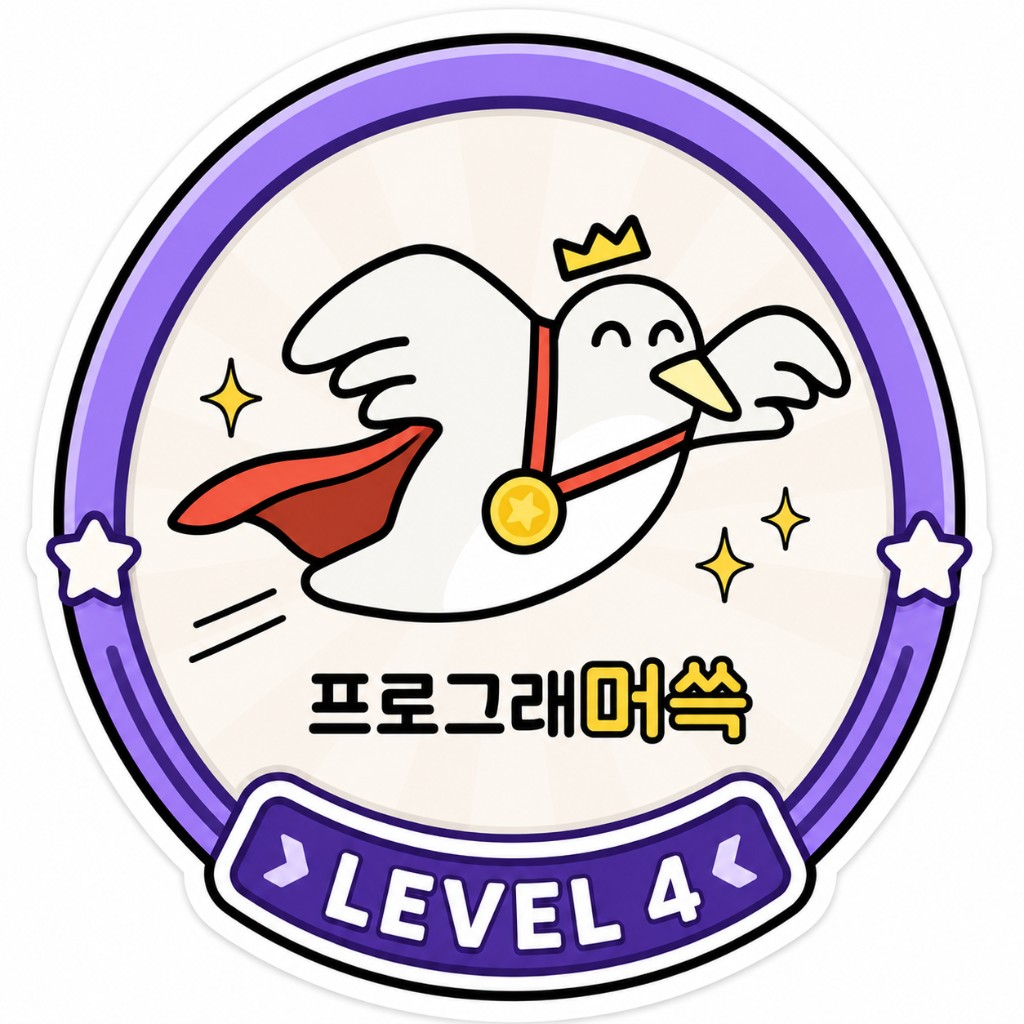
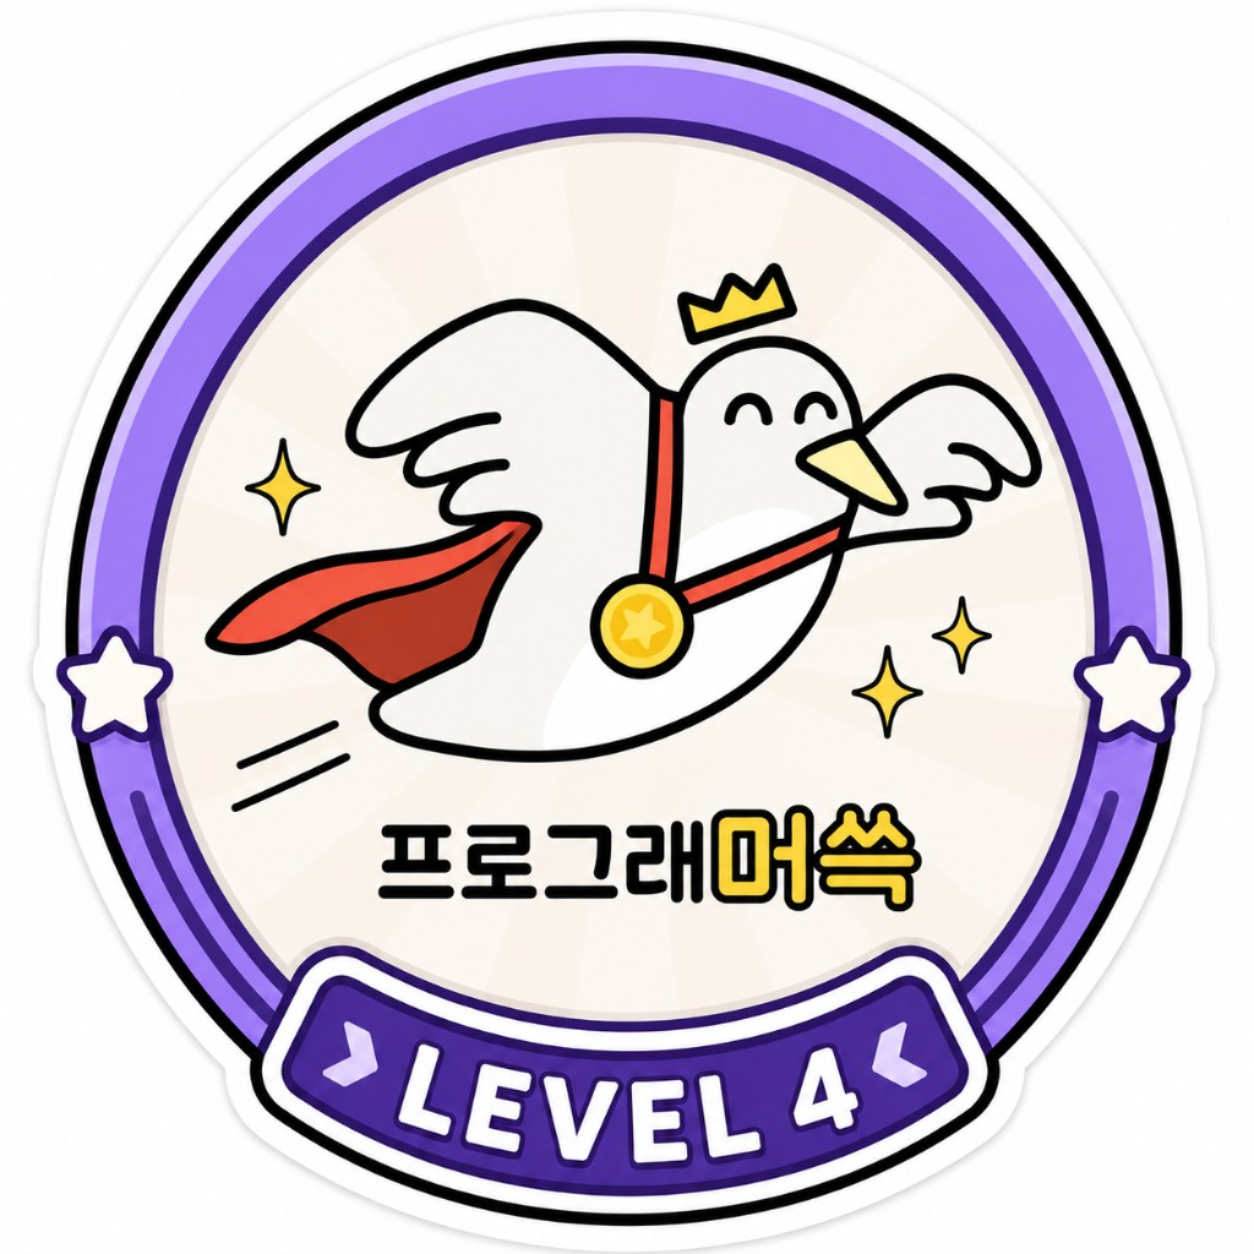
fix(progress): convert Stage4/5 badges to 1254 PNG and repair CI tests

Changed region(s): [[0.5, 0.6562, 0.5312, 0.6875], [0.3125, 0.6562, 0.3438, 0.6875]]

diff --git a/src/test/java/com/careerdungeon/domain/progress/controller/ProgressQueryControllerTest.java b/src/test/java/com/careerdungeon/domain/progress/controller/ProgressQueryControllerTest.java
@@ -104,7 +104,7 @@ class ProgressQueryControllerTest {
         UserBadgeResponse badge = new UserBadgeResponse(
                 11L,
                 1,
-                "인턴머쓱",
+                "인턴머썼",
                 "https://int-team3.s3.ap-northeast-2.amazonaws.com/badges/Level1.png?X-Amz-Signature=test",
                 true,
                 Instant.parse("2026-07-20T01:02:03Z"));
@@ -115,7 +115,7 @@ class ProgressQueryControllerTest {
                 .andExpect(status().isOk())
                 .andExpect(jsonPath("$.badges[0].badgeId").value(11))
                 .andExpect(jsonPath("$.badges[0].stage").value(1))
-                .andExpect(jsonPath("$.badges[0].name").value("인턴머쓱"))
+                .andExpect(jsonPath("$.badges[0].name").value("인턴머썼"))
                 .andExpect(jsonPath("$.badges[0].imageUrl").value(
                         "https://int-team3.s3.ap-northeast-2.amazonaws.com/badges/Level1.png?X-Amz-Signature=test"))
                 .andExpect(jsonPath("$.badges[0].acquired").value(true))
@@ -131,7 +131,7 @@ class ProgressQueryControllerTest {
         UserBadgeResponse lockedBadge = new UserBadgeResponse(
                 12L,
                 2,
-                "대리머쓱",
+                "대리머썼",
                 "https://int-team3.s3.ap-northeast-2.amazonaws.com/badges/Level2.png?X-Amz-Signature=test",
                 false,
                 null);
@@ -143,7 +143,7 @@ class ProgressQueryControllerTest {
                 .andExpect(jsonPath("$.badges").isArray())
                 .andExpect(jsonPath("$.badges").isEmpty())
                 .andExpect(jsonPath("$.catalog[0].stage").value(2))
-                .andExpect(jsonPath("$.catalog[0].name").value("????"))
+                .andExpect(jsonPath("$.catalog[0].name").value("대리머썼"))
                 .andExpect(jsonPath("$.catalog[0].acquired").value(false))
                 .andExpect(jsonPath("$.catalog[0].acquiredAt").value(nullValue()))
                 .andExpect(jsonPath("$.catalog[0].imageUrl").value(

diff --git a/src/test/java/com/careerdungeon/domain/progress/resource/BadgeAssetTest.java b/src/test/java/com/careerdungeon/domain/progress/resource/BadgeAssetTest.java
@@ -31,18 +31,22 @@ class BadgeAssetTest {
         }
     }
 
-    /** Stage5 최종 뱃지 원본이 클래스패스에 존재하고 디코딩 가능한지 검증한다. */
+    /** Stage5 도감 선배포 자산도 Level1~4와 동일한 1254px 정사각 PNG인지 검증한다. */
     @Test
-    @DisplayName("Level5 뱃지 이미지는 배포 경로에 존재한다")
-    void level5BadgeAssetExists() throws IOException {
+    @DisplayName("Level5 뱃지 이미지는 1254x1254 PNG로 배포된다")
+    void level5BadgeAssetIsReadableSquarePng() throws IOException {
         ClassPathResource resource = new ClassPathResource("static/badges/Level5.png");
 
         assertThat(resource.exists()).isTrue();
         try (var inputStream = resource.getInputStream()) {
+            byte[] header = inputStream.readNBytes(8);
+            assertThat(header).startsWith(new byte[]{(byte) 0x89, 0x50, 0x4E, 0x47});
+        }
+        try (var inputStream = resource.getInputStream()) {
             BufferedImage image = ImageIO.read(inputStream);
             assertThat(image).isNotNull();
-            assertThat(image.getWidth()).isPositive();
-            assertThat(image.getHeight()).isPositive();
+            assertThat(image.getWidth()).isEqualTo(1254);
+            assertThat(image.getHeight()).isEqualTo(1254);
         }
     }
 }
